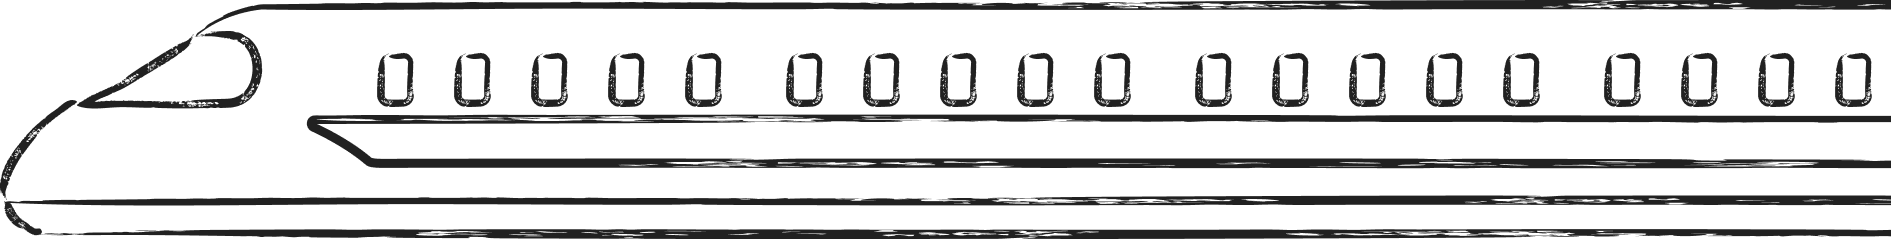
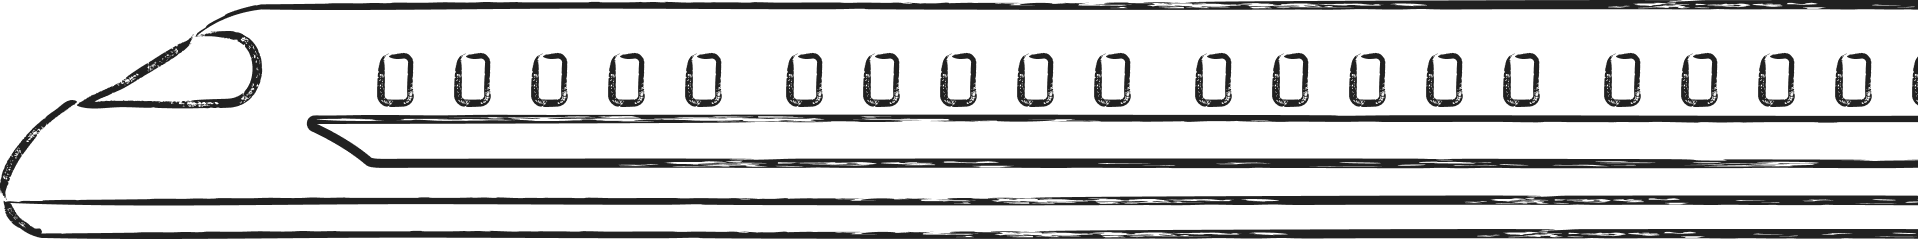
chore: train animated succesfully

diff --git a/src/lib/segments/About2.svelte b/src/lib/segments/About2.svelte
@@ -2,6 +2,8 @@
     import {currentLang} from "$lib/shared.svelte";
     import {m} from "../paraglide/messages";
     import {onMount} from "svelte";
+    import {Tween} from "svelte/motion";
+    import {cubicInOut} from "svelte/easing";
 
     const blurbs = $derived.by(() => {
         return Object.keys(m)
@@ -10,9 +12,66 @@
             .map(key => m[key as keyof typeof m]());
     })
 
-    let init = $state(false)
+    let trainFrontElem: HTMLElement | null = $state(null)
+    let trainMiddleElems: Array<HTMLElement | null> = $state([])
+    let trainMiddleElemFirst: HTMLElement | null = $derived(trainMiddleElems[0])
+    let trainMiddleElemSecond: HTMLElement | null = $derived(trainMiddleElems[1])
+
+    const getTrainTween = (start: number, duration: number) => {
+        return new Tween(start, {
+            duration: duration,
+            easing: cubicInOut
+        })
+    }
+
+    let trainPos = $state(getTrainTween(0, 1000));
+
+    let passingBy = $state(false);
+    let frontPass = $state(true);
+    let juggler = $state(false);
+    let ghostWagons = $state(0);
+    const ghostWagonCap = 256;
+    const startRandomTick = () => {
+        setInterval(() => {
+            if (passingBy) return;
+            if (!(Math.floor(Math.random() * 7) == 0)) return;
+            passingBy = true;
+
+            startTrainAnim();
+        }, 3000)
+    }
+
+    const trainPosTarget = 500;
+    const startTrainAnim = () => {
+        if (!trainFrontElem || !trainMiddleElemFirst || !trainMiddleElemSecond) return;
+        trainPos.target = trainPosTarget;
+    }
+
+    $effect(() => {
+        if (trainPos.current == trainPosTarget) {
+            passingBy = false;
+            ghostWagons = 0;
+            frontPass = true;
+            trainPos.target = 0;
+            trainPos = getTrainTween(0, 1000);
+        }
+
+        if (ghostWagons >= ghostWagonCap) {
+            return;
+        }
+
+        if (trainPos.current > 300) {
+            trainPos.target = 0;
+            frontPass = false;
+            ghostWagons++;
+            juggler != juggler;
+            trainPos = getTrainTween(200, 100);
+            startTrainAnim();
+        }
+    })
+
     onMount(() => {
-        init = true
+        startRandomTick();
     })
 </script>
 
@@ -21,25 +80,23 @@
         <div class="decor-waterfall decor-waterfall-upper"></div>
         <div class="decor-waterfall decor-waterfall-lower"></div>
         <div class="char-sheet">
-            {#if init}
-                <div class="infobloc">
-                    <div class="infobloc-inner">
-                        <p class="infobloc-chief-blurb">{@html m.about_info_upper().replace(":flag_ua:", `<img width="72" height="72" class="smol" src="/img/icon/flag_ua.webp" alt="Ukrainian flag"/>`)}</p>
-                        <ul class="infobloc-blurbs">
-                            {#each blurbs as blurb, i}
-                                <li>
-                                    <p>{@html blurb}</p>
+            <div class="infobloc">
+                <div class="infobloc-inner">
+                    <p class="infobloc-chief-blurb">{@html m.about_info_upper().replace(":flag_ua:", `<img width="72" height="72" class="smol" src="/img/icon/flag_ua.webp" alt="Ukrainian flag"/>`)}</p>
+                    <ul class="infobloc-blurbs">
+                        {#each blurbs as blurb, i}
+                            <li>
+                                <p>{@html blurb}</p>
+                            </li>
+                            {#if i % 2 === 0}
+                                <li class="infobloc-separator" aria-label="separator">
+                                    <p>|</p>
                                 </li>
-                                {#if i % 2 === 0}
-                                    <li class="infobloc-separator" aria-label="separator">
-                                        <p>|</p>
-                                    </li>
-                                {/if}
-                            {/each}
-                        </ul>
-                    </div>
+                            {/if}
+                        {/each}
+                    </ul>
                 </div>
-            {/if}
+            </div>
             <div class="pfpbloc-cont">
                 <div class="pfpbloc">
                     <img class="pfp" src="img/pfp.webp" alt="maksiks profile pic, an overloaded letter M mostly">
@@ -54,26 +111,60 @@
         </div>
 
         <div class="train-cont">
-            <img class="train train-front" src="/img/train_front.png" alt="a literal train">
-            <img class="train train-middle" src="/img/train_middle.png" alt="a literal train">
-            <img class="train-tracks" src="/img/tracks.png" alt="train tracks">
+            <img loading="lazy" style={`left: ${100-trainPos.current}vw; opacity: ${frontPass ? "100" : "0"};`}
+                 class="train train-front" bind:this={trainFrontElem} src="/img/train_front.png" alt="a literal train">
+            {#each Array.from({length: 2}) as _, i}
+                <img loading="lazy"
+                     style={i === 0 ? `left: ${((juggler && ghostWagons < ghostWagonCap) ? 300 : 200)-trainPos.current}vw` : `left: ${((juggler && ghostWagons < ghostWagonCap) ? 200 : 300)-trainPos.current}vw`}
+                     class="train train-middle" bind:this={trainMiddleElems[i]} src="/img/train_middle.png"
+                     alt="a literal train">
+            {/each}
+            <img loading="lazy" style={`left: ${400-trainPos.current}vw`}
+                 class="train train-back" bind:this={trainFrontElem} src="/img/train_front.png" alt="a literal train">
+            <img loading="lazy" class="train-tracks" src="/img/tracks.png" alt="train tracks">
         </div>
     </section>
 
     <style>
         .about-seg {
-            height: 130vh;
+            height: 140vh;
             width: 100vw;
             position: relative;
 
             background-color: white;
 
             & .train-cont {
+                margin-top: 20vh;
+                position: relative;
+                z-index: 20;
+
                 & .train {
                     width: 100%;
                     height: 20vh;
                 }
 
+                & .train-front {
+                    /* relative so it shifts the layout, do not display: none 3 am me please */
+                    position: relative;
+                    left: 100vw;
+                }
+
+                & .train-back {
+                    transform: scaleX(-1);
+                    position: absolute;
+                    top: 0;
+                    left: 400vw;
+                }
+
+                & .train-middle {
+                    position: absolute;
+                    left: 200vw;
+                    top: 0;
+                }
+
+                & .train-tracks {
+                    margin-top: -10px;
+                }
 
             }
 
@@ -82,17 +173,18 @@
 
                 position: absolute;
                 width: 44px;
-                height: 40%;
             }
 
             & .decor-waterfall-upper {
                 top: 0;
                 left: 40%;
+                height: 40%;
             }
 
             & .decor-waterfall-lower {
-                top: 60%;
+                top: 50%;
                 left: 20%;
+                height: 60%;
             }
 
             & .char-sheet {

diff --git a/todo.md b/todo.md
@@ -6,3 +6,4 @@
 - [ ] cfg: lang all
 - [ ] todo maybe: status effect and mana changes based on time of day
 - [ ] todo maybe: maybe make status scale in
+- [ ] todo: ambient sounds mandatory
